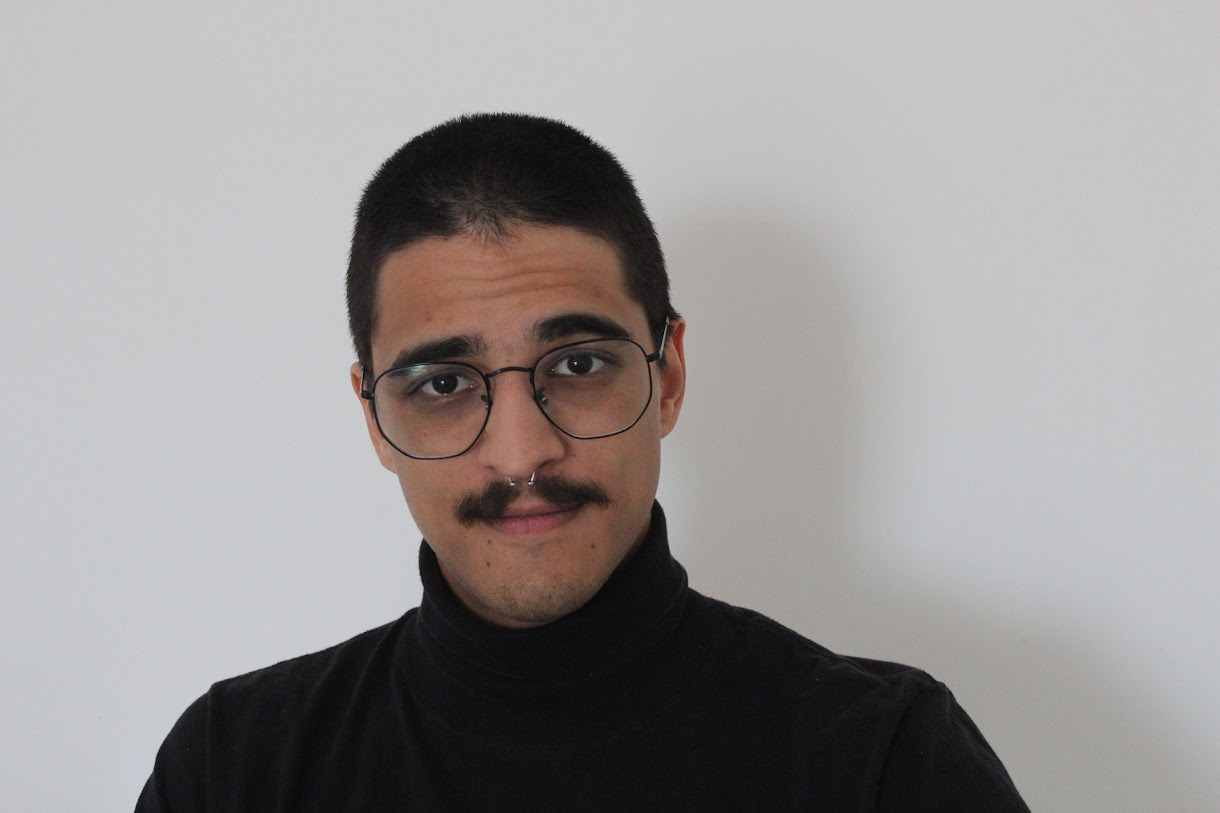
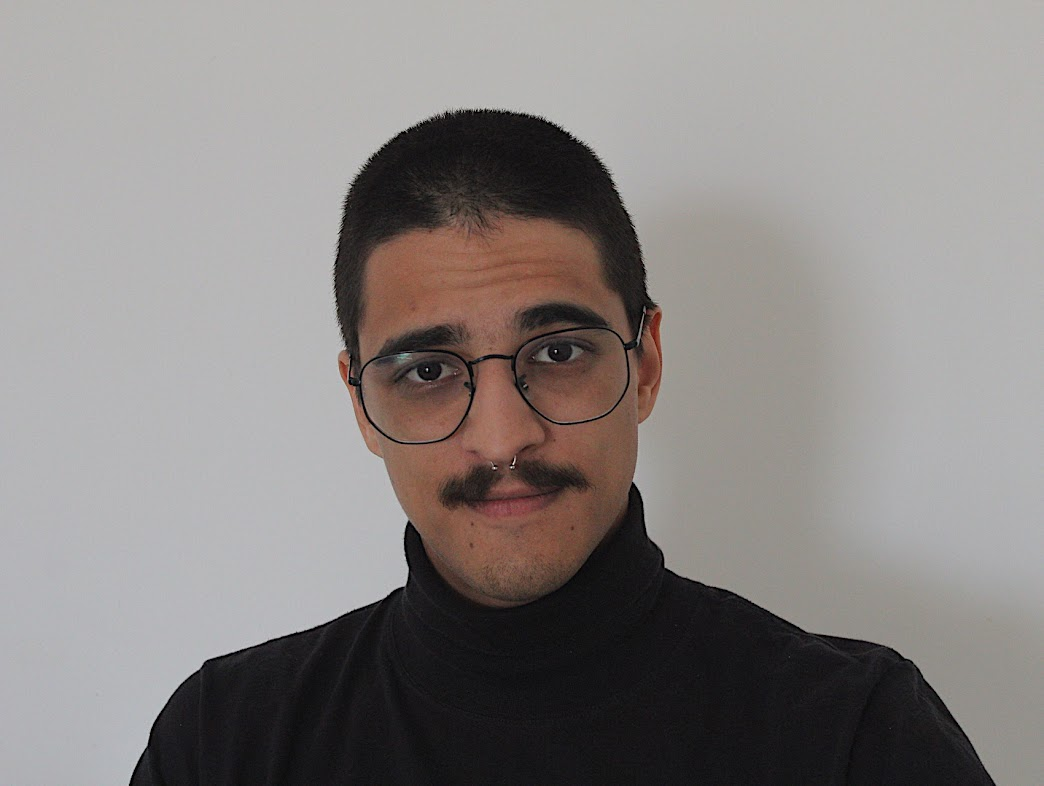
:sparkles: feat. scrollAnimation + new pfp

diff --git a/src/components/About.css b/src/components/About.css
@@ -32,6 +32,25 @@
   width: 60%;
   filter: grayscale(100%);
   margin-right: 20px;
+  transition: 0.8s;
+  box-sizing: border-box;
+  animation: fade-in linear forwards;
+  animation-duration: 1s;
+  opacity: 0;
+  animation-timeline: view();
+  animation-range-end: 33%;
+}
+
+@keyframes fade-in {
+  0% {
+    scale: 0.9;
+    opacity: 0.6;
+  }
+
+  100% {
+    opacity: 1;
+    scale: 1;
+  }
 }
 
 .photo-border::after {
@@ -39,9 +58,38 @@
   position: absolute;
   width: 100%;
   height: 100%;
-  border: 2px solid var(--text);
+  border: 3px solid var(--text);
   border-radius: 20px;
-  transform: translate(30px, 30px);
+  /* transform: translate(20px, 20px); */
+  z-index: 1;
+  box-sizing: border-box;
+  transition: 0.4s;
+  animation: open-after linear;
+  transform: translate(20px, 20px);
+  animation-timeline: view();
+  animation-range-end: 33%;
+}
+
+@keyframes open-after {
+  0% {
+    transform: translate(0, 0);
+  }
+
+  100% {
+    transform: translate(20px, 20px);
+  }
+}
+
+.photo-border:hover::after {
+  content: '';
+  position: absolute;
+  width: 100%;
+  height: 100%;
+  border: 3px solid var(--text);
+  border-radius: 20px;
+  transform: translate(0, 0);
+  transition: 0.4s;
+  box-sizing: border-box;
   z-index: 1;
 }
 
@@ -50,10 +98,38 @@
   position: absolute;
   width: 100%;
   height: 100%;
-  border: 2px solid var(--background);
+  border: 3px solid var(--background);
   border-radius: 20px;
-  transform: translate(-30px, -30px);
   z-index: -1;
+  box-sizing: border-box;
+  transition: 0.4s;
+  animation: open-before linear;
+  transform: translate(-20px, -20px);
+  animation-timeline: view();
+  animation-range-end: 33%;
+}
+
+@keyframes open-before {
+  0% {
+    transform: translate(0, 0);
+  }
+
+  100% {
+    transform: translate(-20px, -20px);
+  }
+}
+
+.photo-border:hover::before {
+  content: '';
+  position: absolute;
+  width: 100%;
+  height: 100%;
+  border: 3px solid var(--background);
+  border-radius: 20px;
+  transform: translate(0, 0);
+  z-index: -1;
+  box-sizing: border-box;
+  transition: 0.4s;
 }
 
 .photo-border img {
@@ -65,5 +141,5 @@
 
 .photo-border:hover {
   filter: grayscale(20%);
-  transition: 0.5s;
+  transition: 0.8s ease;
 }

diff --git a/src/components/ThemeButton.css b/src/components/ThemeButton.css
@@ -8,7 +8,8 @@
   border: 3px solid white;
   border-radius: 50%;
   box-sizing: border-box;
-  background-color: var(--background-50);
+  /* background-color: var(--background-50); */
+  background-color: var(--glass);
   transition: 3s;
   border-color: var(--secondary);
 }

diff --git a/src/components/Aside.css b/src/components/Aside.css
@@ -10,8 +10,6 @@
   width: 100px;
   height: 90vh;
   color: black;
-  /* color: var(--text); */
-  /* background: rgba(255, 255, 255, 0.5); */
   background: var(--glass);
   backdrop-filter: blur(10px);
   border-radius: 10px;

diff --git a/src/App.css b/src/App.css
@@ -20,9 +20,9 @@
   justify-content: center;
   align-items: center;
 }
-
+/* 
 #home {
   display: flex;
   justify-content: center;
   align-items: center;
-}
+} */

diff --git a/src/index.css b/src/index.css
@@ -58,3 +58,8 @@ body {
 ::-webkit-scrollbar-track {
   background-color: transparent;
 }
+
+::selection {
+  background-color: #ffcc00;
+  color: #000000;
+}
